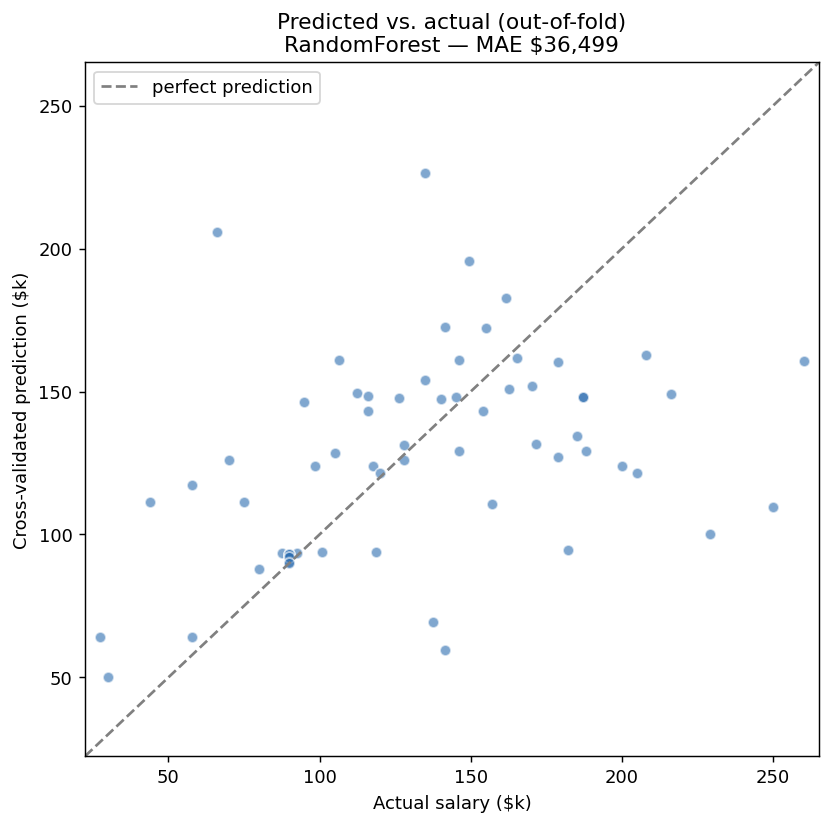
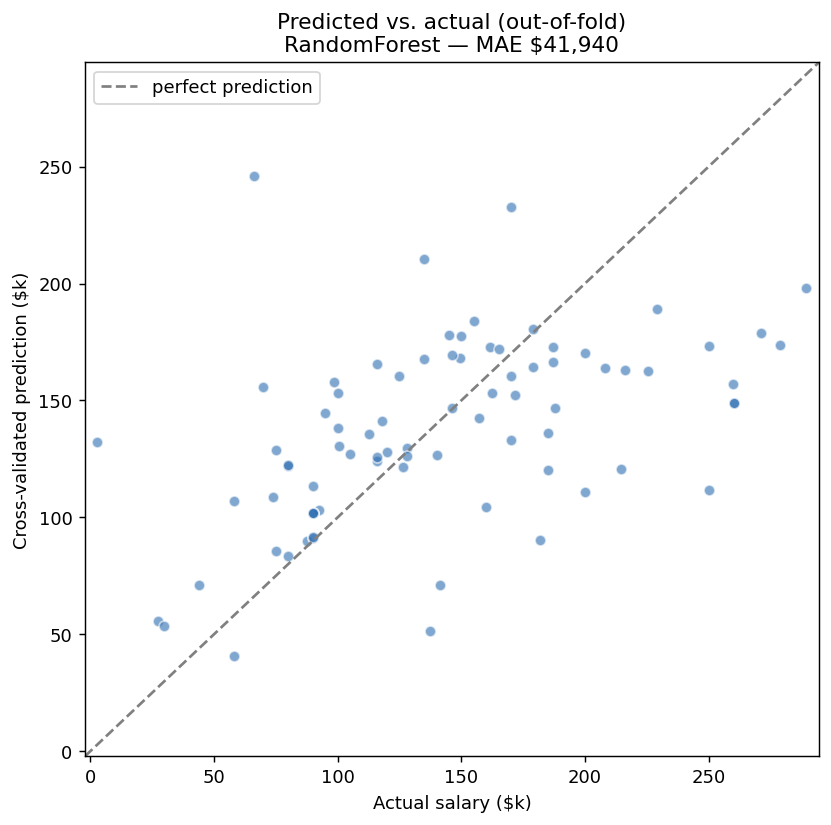
Update README: 6 sources in diagram, current salary-model numbers (n=81), Phase 6 done, no em-dashes

diff --git a/README.md b/README.md
@@ -9,33 +9,34 @@
 This project answers that question with data instead of guesswork. It runs an
 automated pipeline that collects data-job postings from public APIs, structures
 the messy real-world fields (skills, salaries) hidden in their text, stores them
-in a warehouse, and surfaces the trends. It is designed to keep running on a
-schedule, so the dataset get richer over time.
+in a warehouse, and surfaces the trends. It runs on a schedule, so the dataset
+gets richer over time.
 
 > **Why this project exists.** Most data portfolios reuse the same clean Kaggle
 > CSVs, which proves little about real work. Here the data is sourced from the
-> wild, arrives messy, and has to be cleaned, parsed, and modeled end-to-end.
+> wild, arrives messy, and has to be cleaned, parsed, and modeled end to end.
 
 ---
 
 ## Key findings
 
 _From ~440 postings across 5 markets (Remote-international, US, Australia,
-Malaysia, Indonesia). Directional, not definitive which regenerate anytime with
+Malaysia, Indonesia). Directional, not definitive; regenerate them anytime with
 `python -m src.report`, and they firm up as the scheduled collector accumulates
 data._
 
 - 🌏 **Local vs. remote demand differs sharply.** In **Indonesia**, roles lean
-  analyst/BI **SQL (77%)**, Python (73%), then Tableau/Power BI (~36%) and
+  analyst/BI: **SQL (77%)**, Python (73%), then Tableau/Power BI (~36%) and
   ETL/Airflow (data-engineering). **Remote-international** roles lean
   Python-first (57%) with more **ML and cloud (AWS, Git)**. Different skill prep
   depending on which market you target.
 - 📊 **Across all markets, SQL + Python dominate**; everything else trails. A
   BI tool (Tableau/Power BI) is close to mandatory for local analyst roles.
 - 💸 **Specialized ML skills carry a pay premium** (remote USD salaries):
-  Deep Learning / PyTorch / TensorFlow roughly **$150–170k** vs roughly **$90–116k** for
-  general analytics tooling. _(Small per-skill samples; salary data is scarce
-  outside remote-USD while local postings rarely advertise pay.)_
+  Deep Learning / PyTorch / TensorFlow roughly **$150k to $170k** vs roughly
+  **$90k to $116k** for general analytics tooling. _(Small per-skill samples;
+  salary data is scarce outside remote-USD, and local postings rarely advertise
+  pay.)_
 
 _Caveat: English-language postings; salary stats cover only the remote-USD subset
 that advertises pay. See [Data & limitations](#data--limitations)._
@@ -53,83 +54,81 @@ Generated by `python -m src.figures`; the full narrative walk-through lives in
 
 ### Salary model (Phase 4)
 
-Predicting advertised salary, done the honest way, a small
-regularised model, 5-fold cross-validation, and transparent limitations. On the
-current ~60 advertised-salary postings:
+Predicting advertised salary, done the honest way: a small regularised model,
+5-fold cross-validation, and transparent limitations. On the current ~80
+advertised-salary postings:
 
 | Model | MAE (CV) | Notes |
 |---|---|---|
-| Baseline  (global median) | ~$42k | the bar every model must clear |
-| RidgeCV (skills + role + seniority) | ~$39k | interpretable coefficients |
-| RandomForest | **~$37k** | best, **~13% better than baseline** |
+| Baseline (global median) | ~$53k | the bar every model must clear |
+| RidgeCV (skills + role + seniority) | ~$46k | interpretable coefficients |
+| RandomForest | **~$42k** | best, **~21% better than baseline** |
 
-R² hovers near zero which is an honest signal that advertised salary is hard to predict
-from a handful of features on this little data. The model's value is the
-*pipeline*: it sharpens automatically as the collector accumulates more salaries.
+R² is a modest ~0.15 (up from near zero when the dataset was smaller), so there
+is some real signal, though advertised salary stays hard to predict from a
+handful of features on this little data. The model's value is the *pipeline*: it
+sharpens automatically as the collector accumulates more salaries.
 
 <img src="reports/figures/model_eval.png" width="480" alt="Predicted vs actual salary (out-of-fold)">
 
-**Interpretation (RidgeCV).** Seniority (**+$22k**), Machine Learning (**+$19k**)
-and Deep Learning (**+$11k**) push predicted pay up. SQL and cloud show *negative*
-coefficients not because they lower pay, but because in this small sample they
-cluster in lower-paying analyst roles (a confounding artifact the writeup calls
+**Interpretation (RidgeCV).** Python (**+$50k**), seniority (**+$38k**) and
+Machine Learning (**+$17k**) push predicted pay up. Cloud shows a *negative*
+coefficient, not because it lowers pay, but because in this small sample those
+skills cluster in lower-paying roles (a confounding artifact the writeup calls
 out explicitly). Directional, not causal.
 
 ### Interactive dashboard (Phase 5)
 
-**Windows: just double-click [`run.bat`](run.bat).** Otherwise:
+Deployed and live at **[data-job-market-intelligence.streamlit.app](https://data-job-market-intelligence.streamlit.app/)**.
+
+To run it locally, on Windows just double-click [`run.bat`](run.bat). Otherwise:
 
 ```bash
 python -m streamlit run app.py
 ```
 
 > If `streamlit run app.py` errors with `No module named 'streamlit.cli'`, a
-> stale launcher from another Python install is shadowing it, use `python -m
-> streamlit run app.py` (and `run.bat`).
+> stale launcher from another Python install is shadowing it; use `python -m
+> streamlit run app.py` (or `run.bat`) instead.
 
 A [Streamlit](https://streamlit.io/) app ([app.py](app.py)) that reuses the same
-analysis/model code, so it never drifts from the report. It has filters (role,
-source, work type), the four charts, a sortable posting explorer, and a **live
-salary estimator**.
+analysis and model code, so it never drifts from the report. It has filters
+(role, source, work type), the four charts, a sortable posting explorer, and a
+**live salary estimator**.
 
-**Deploy it free (gives you a public URL for your résumé):**
-1. Push this repo to GitHub (the small warehouse `.parquet` files are committed
-   on purpose so the app has data).
-2. Go to [share.streamlit.io](https://share.streamlit.io), connect the repo, and
-   set the main file to `app.py`.
-3. Streamlit Community Cloud installs `requirements.txt` and serves
-   the app at a shareable link. _(Adzuna keys aren't needed to view it; add them
-   as Streamlit "secrets" only if you want it to collect fresh data.)_
+**How it's deployed (free):** the small warehouse `.parquet` files are committed
+so the app has data, and [share.streamlit.io](https://share.streamlit.io) is
+connected to this repo with `app.py` as the main file. No API keys are needed to
+view it.
 
 ---
 
 ## How it works
 
 ```
- Public job APIs            This pipeline                      Outputs
-┌───────────────┐     ┌──────────────────────────┐     ┌───────────────────┐
-│  Remotive     │──▶  │ collect → normalize →     │ ──▶ │ data/raw/*.jsonl   │ (audit trail)
-│  Jobicy       │     │ parse salaries → dedupe   │     │ warehouse/         │
-│  Adzuna       │     │                           │     │   jobs.parquet     │ (analysis-ready)
-└───────────────┘     └──────────────────────────┘     └───────────────────┘
+ Sources (6 public APIs)          Pipeline                    Outputs
+ Remotive  Jobicy  RemoteOK   ->  collect, normalize,     ->  data/raw/*.jsonl     (audit trail)
+ Adzuna    Jooble  JSearch        parse salaries,             data/warehouse/
+                                  extract skills, dedupe        jobs.parquet       (analysis-ready)
+                                                                job_skills.parquet
 ```
 
-- **Sources** ([src/sources/](src/sources/)) — one small module per job board,
+- **Sources** ([src/sources/](src/sources/)): one small module per job board,
   all mapped onto a single [normalized schema](src/schema.py). Adding a board is
-  ~30 lines.
-- **Salary parsing** ([src/salary.py](src/salary.py)) — turns free text like
-  `"$80k - $100k"` or `"$18/hr"` into `(min, max, currency, period)`. The
-  gnarly part, so it has its own [unit tests](tests/test_salary.py).
-- **Skill extraction** ([src/skills/](src/skills/)) — a curated
-  [taxonomy](src/skills/taxonomy.py) of ~70 data skills + a
+  about 30 lines.
+- **Salary parsing** ([src/salary.py](src/salary.py)): turns free text like
+  `"$80k - $100k"` or `"$18/hr"` into `(min, max, currency, period)`. The gnarly
+  part, so it has its own [unit tests](tests/test_salary.py).
+- **Skill extraction** ([src/skills/](src/skills/)): a curated
+  [taxonomy](src/skills/taxonomy.py) of ~70 data skills plus a
   [matcher](src/skills/extractor.py) that resolves ambiguous names (`R` vs
   "R&D", `Java` vs `JavaScript`, `Excel` vs the verb). Output: a tidy
-  `job_skills` table, one row per posting × skill.
-- **Storage** ([src/storage.py](src/storage.py)) — immutable raw snapshots for
-  reproducibility + a deduplicated parquet warehouse that tracks when each
-  posting was `first_seen` / `last_seen`.
-- **Insights** ([src/report.py](src/report.py)) — skill demand and median
-  advertised pay per skill (advertised-USD-annual only, small samples gated).
+  `job_skills` table, one row per posting-skill pair.
+- **Storage** ([src/storage.py](src/storage.py)): immutable raw snapshots for
+  reproducibility, plus a deduplicated parquet warehouse that tracks when each
+  posting was `first_seen` and `last_seen`.
+- **Insights** ([src/report.py](src/report.py)): skill demand and median
+  advertised pay per skill, plus a per-source data-quality audit.
 
 ## Quickstart
 
@@ -140,9 +139,10 @@ python -m venv .venv
 # source .venv/bin/activate     # macOS/Linux
 pip install -r requirements.txt
 
-# 2. (Optional) enable Adzuna for non-remote, higher-volume data:
-#    copy .env.example -> .env and paste your free Adzuna keys.
-#    Remotive + Jobicy need no keys, so you can skip this and still run.
+# 2. (Optional) add API keys to unlock more sources and markets:
+#    copy .env.example to .env and paste your free keys.
+#    Adzuna = US/Australia; Jooble + RapidAPI (JSearch) = Indonesia/Malaysia.
+#    Remotive, Jobicy and RemoteOK need no keys, so you can skip this and still run.
 
 # 3. Collect postings (writes data/warehouse/jobs.parquet)
 python -m src.collect
@@ -157,8 +157,8 @@ python -m src.figures
 python -m src.model
 
 # 7. Launch the interactive dashboard
-python -m streamlit run app.py    # (more robust than `streamlit run` if you
-                                  #  have multiple Python installs)
+python -m streamlit run app.py    # more robust than `streamlit run` if you
+                                  # have multiple Python installs
 
 # Anytime: peek at raw data, re-print insights
 python -m src.peek
@@ -173,33 +173,34 @@ pytest
 jupyter notebook notebooks/analysis.ipynb
 ```
 
-Re-run `python -m src.collect` whenever you like. It tops up the warehouse and
-deduplicates automatically. Re-run `python -m src.extract_skills` after each
-collection to refresh the skills table and insights. Tune what gets collected in
+Or just double-click [`update-data.bat`](update-data.bat) to refresh everything
+in one go. Re-run `python -m src.collect` whenever you like; it tops up the
+warehouse and deduplicates automatically. Tune what gets collected in
 [config.yaml](config.yaml).
 
 ## Project status / roadmap
 
-- [x] **Phase 1 — Collection.** Multi-source pipeline, normalized schema, salary
+- [x] **Phase 1: Collection.** Multi-source pipeline, normalized schema, salary
       parser + tests, deduplicated warehouse, raw audit snapshots.
-- [x] **Phase 2 — Skill extraction.** Curated taxonomy (~70 skills) + a matcher
+- [x] **Phase 2: Skill extraction.** Curated taxonomy (~70 skills) plus a matcher
       that handles ambiguous names (`R` vs "R&D", `Java` vs `JavaScript`, `Excel`
       vs the verb); tidy `job_skills` table; demand + salary-by-skill report.
-- [x] **Phase 3 — Analysis & insights.** Demand, pay-by-skill, role comparison
-      and skill co-occurrence as a text report (`src/report.py`), reproducible
-      charts (`src/figures.py`), and a narrative notebook.
-- [x] **Phase 4 — Salary model.** Baseline-first, RidgeCV + RandomForest, 5-fold
+- [x] **Phase 3: Analysis & insights.** Demand, pay-by-skill, role comparison and
+      skill co-occurrence as a text report (`src/report.py`), reproducible charts
+      (`src/figures.py`), and a narrative notebook.
+- [x] **Phase 4: Salary model.** Baseline-first, RidgeCV + RandomForest, 5-fold
       cross-validation, interpretable coefficients, honest error reporting
       (`src/model.py`).
-- [x] **Phase 5 — Dashboard.** Interactive Streamlit app ([app.py](app.py)) with
-      filters, charts, a posting explorer and a live salary estimator; one-click
-      deployable to Streamlit Community Cloud.
-- [ ] **Phase 6 — Automation.** Scheduled refresh via GitHub Actions.
+- [x] **Phase 5: Dashboard.** Interactive Streamlit app ([app.py](app.py)) with
+      filters, charts, a posting explorer and a live salary estimator, deployed
+      live on Streamlit Community Cloud.
+- [x] **Phase 6: Automation.** Scheduled weekly data refresh via GitHub Actions,
+      plus a CI tests workflow.
 
 ## Data & limitations
 
-- **Sources & markets** — every posting is tagged with a `market` so you can
-  compare e.g. *Indonesia* vs *Remote-international* vs *Australia*:
+- **Sources & markets:** every posting is tagged with a `market` so you can
+  compare, for example, *Indonesia* vs *Remote-international* vs *Australia*:
   | Source | Market(s) | Strength | Caveat |
   |---|---|---|---|
   | [Remotive](https://remotive.com/), [Jobicy](https://jobicy.com/) | Remote (international) | real advertised USD salaries | remote-only |
@@ -207,40 +208,43 @@ collection to refresh the skills table and insights. Tune what gets collected in
   | [Adzuna](https://developer.adzuna.com/) | US, Australia (any of its countries) | volume, geography, on-site roles | salaries mostly *estimates*; no Indonesia/Malaysia |
   | [Jooble](https://jooble.org/api/about) | Indonesia, Malaysia | local coverage exists | **very thin** for data roles; no skills/salary |
   | [JSearch](https://rapidapi.com/letscrape-6bRBa3QguO5/api/jsearch) | any country incl. Indonesia | aggregates Google for Jobs (LinkedIn/Indeed/Glassdoor) | needs RapidAPI key; free tier rate-limited |
-- **The local-data reality** — free APIs barely cover the Indonesian data-job
+- **The local-data reality:** free APIs barely cover the Indonesian data-job
   market (Jooble returns ~1 real Indonesian data role). **JSearch** is the only
   realistic path to meaningful local data, since it taps the big boards that
   actually carry those postings.
-- **Predicted vs advertised salary** — Adzuna fills in an estimated salary
+- **Predicted vs advertised salary:** Adzuna fills in an estimated salary
   (`salary_is_predicted = true`) when a posting doesn't state one. Those are
   flagged and **excluded from salary modeling**, or you'd be modeling Adzuna's
-  model. Only ~⅓ of salaried postings carry a genuinely advertised number.
-- **Coverage bias** — still skews English-language and tech-forward; remote vs
+  model. Only about a third of salaried postings carry a genuinely advertised
+  number.
+- **Coverage bias:** still skews English-language and tech-forward; remote vs
   on-site is now roughly balanced thanks to Adzuna. Treat findings as
   directional, not census-accurate.
-- **Skill extraction is dictionary-based** — high precision (few false hits) but
-  bounded recall: a skill only counts if it's in the
+- **Skill extraction is dictionary-based:** high precision (few false hits) but
+  bounded recall, since a skill only counts if it's in the
   [taxonomy](src/skills/taxonomy.py). Add entries to widen coverage.
 - **Description truncation is surfaced, not hidden.** Some sources return short
-  teasers (Adzuna averages ~500 chars vs ~2,400–6,300 for Jobicy/JSearch/RemoteOK),
-  so a missing skill there is *missing data*, not a true "not required". Rather
-  than silently drop that data, the report and dashboard show a **per-source
-  quality audit** (`quality_by_source`), and demand can *optionally* be recomputed
-  over detailed postings only (the `rich_only` toggle). Adzuna still earns its
-  place for volume, geography and on-site coverage.
-- **Ethics** — official JSON APIs (no scraping behind logins), modest request
+  teasers (Adzuna averages ~500 chars vs ~2,400 to 6,300 for
+  Jobicy/JSearch/RemoteOK), so a missing skill there is *missing data*, not a true
+  "not required". Rather than silently drop that data, the report and dashboard
+  show a **per-source quality audit** (`quality_by_source`), and demand can
+  *optionally* be recomputed over detailed postings only (the `rich_only`
+  toggle). Adzuna still earns its place for volume, geography and on-site coverage.
+- **Ethics:** official JSON APIs (no scraping behind logins), modest request
   volumes, public posting fields only. API keys live in a git-ignored `.env`.
 
 ### Configuring sources
 
-Toggle sources and search terms in [config.yaml](config.yaml). Adzuna needs a
-free `app_id` / `app_key` from <https://developer.adzuna.com/>. Once you have them, copy
-[.env.example](.env.example) to `.env` and paste them in. Adding a brand-new job
-board is ~30 lines: subclass `BaseSource` in [src/sources/](src/sources/) and
-register it.
+Toggle sources and search terms in [config.yaml](config.yaml). Some sources need
+a free key, added to `.env` (copy [.env.example](.env.example) first): Adzuna
+(`app_id` / `app_key` from <https://developer.adzuna.com/>), Jooble
+(<https://jooble.org/api/about>), and RapidAPI for JSearch
+(<https://rapidapi.com/letscrape-6bRBa3QguO5/api/jsearch>). Adding a brand-new job
+board is about 30 lines: subclass `BaseSource` in [src/sources/](src/sources/)
+and register it.
 
 ## Tech
 
-Python · `requests` · `pandas` / `pyarrow` (parquet) · `BeautifulSoup` ·
-`scikit-learn` · `matplotlib` · `streamlit` · Jupyter · `pytest`.
-Planned: GitHub Actions (Phase 6).
+Python, `requests`, `pandas` / `pyarrow` (parquet), `BeautifulSoup`,
+`scikit-learn`, `matplotlib`, `streamlit`, Jupyter, and `pytest`, with GitHub
+Actions for CI and the scheduled data refresh.
